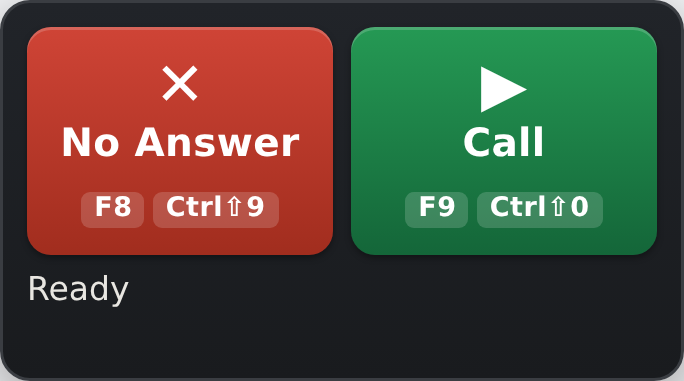
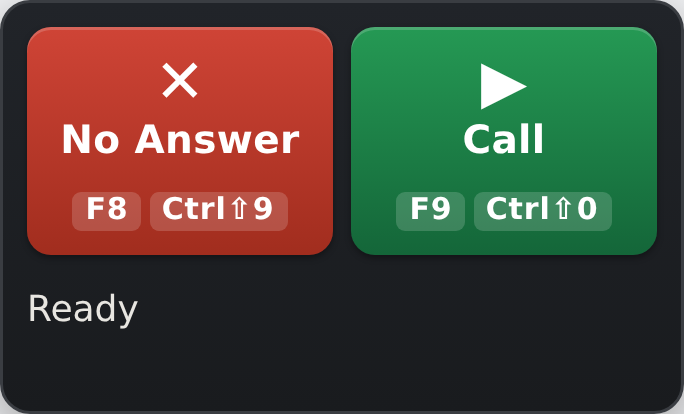
Put the overlay on a type scale and a gap hierarchy
From jakubkrehel/skills (better-layout, better-typography) and
emilkowalski/skills (apple-design's typography section).

Type. The overlay ran 9/10/11/12/13px with no system behind it, and
9px is under the floor for UI text however dense the tool is. Four
sizes now, named for their use — action 13, read 12, caption 11,
overline 10 — and nothing set off the scale. The status is body text
that wraps, so it takes body leading (1.4) and its reserved height is
derived from the scale rather than picked, which is how the reserve and
the leading stop drifting apart. text-wrap:pretty on the two things
that wrap, since an orphan on the last line of a prospect's sentence is
the normal case here, not the edge one.

Space. Grouping only reads when the gap between groups is at least
twice the gap inside one, and the gaps were flat: 6 between the two
buttons but only 8 from that pair to the pane, and 5 between the bands
— smaller than the gap inside a group. Now 6 within (the button pair,
the pane and its rail) and 12 between. The bands each carry their own
shape so they need less, except the status, which is bare text on the
box and gets its own larger gap.

Details the two skills name directly:

- user-select:none was blanket over the overlay and the panel. It is
  now on the controls only, where a double-click would highlight a
  label instead of firing the button. "Stopped: …" is the line a rep
  wants to paste into a message when something breaks.
[…]

diff --git a/extension/content.js b/extension/content.js
@@ -223,6 +223,19 @@
   // ---------------- Optional on-page overlay ----------------
   const OVERLAY_ID = 'sl-hotkey-overlay';
 
+  // Four sizes, named for what they are for, and nothing off the scale. The
+  // overlay used to run 9/10/11/12/13px with no system behind it, and 9px is
+  // below the floor for UI text however dense the tool is. Weight and colour
+  // carry the rest of the hierarchy.
+  const TYPE = {
+    action: 13,     // the button labels — the largest thing here, and the point
+    read: 12,       // what the prospect said, and what the extension says back
+    caption: 11,    // timestamps, the call timer
+    overline: 10,   // keycaps and the uppercase labels; the floor
+  };
+  // Wrapping text needs 1.4 or better; a label on one line can sit tighter.
+  const LEADING = { read: 1.4, label: 1.15 };
+
   // Every part of the overlay is a fixed size. The two action buttons are what
   // the rep aims at all day, so nothing the extension displays — a long status
   // line, a contact alert appearing, a talkative prospect — is allowed to move
@@ -232,9 +245,17 @@
   const TRANSCRIPT_WIDTH = 280;
   const PANEL_HEIGHT = 120;     // the buttons, the pane and the rail: one row, one height
   const BOX_PAD = 8;
-  const MAIN_GAP = 8;           // between the button column and the pane
-  const STACK_GAP = 5;          // between the alert, the row and the status
+  // Grouping is carried by space, and space only groups when the gap between
+  // groups is at least twice the gap inside one. Inside the button pair is 6,
+  // and the rail belongs to the pane at 6, so the two groups sit 12 apart. The
+  // bands are each a shape of their own — a tinted banner, filled buttons, a
+  // bordered pane — so they need less, except the status, which is bare text
+  // and gets STATUS_GAP on top.
+  const MAIN_GAP = 12;          // the button column | the pane and its rail
+  const PAIR_GAP = 6;           // between the two action buttons
   const RAIL_GAP = 6;           // between the pane and its rail
+  const STACK_GAP = 6;          // between the alert band and the row
+  const STATUS_GAP = 10;        // the row to the status, which has no shape
   const ICON = 19;              // the rail's square buttons
   // Five rail buttons and their gaps have to fit PANEL_HEIGHT, which is what
   // stops the pane shrinking further.
@@ -242,9 +263,11 @@
   // Reserved, never measured — that is what stops a long "Stopped: …" moving
   // the buttons. Beside a transcript the box is wide enough for any of them on
   // one line; on its own it is 210px, where the long ones need two. Either way
-  // the tooltip carries whatever still does not fit.
-  const STATUS_ONE_LINE = 15;
-  const STATUS_TWO_LINES = 28;
+  // the tooltip carries whatever still does not fit. Derived from the scale
+  // rather than picked, so the reserve and the leading cannot drift apart.
+  const STATUS_LINE = Math.round(TYPE.read * LEADING.read);
+  const STATUS_ONE_LINE = STATUS_LINE;
+  const STATUS_TWO_LINES = STATUS_LINE * 2;
   // With a transcript beside them the buttons stretch to meet it — same column
   // width, the pane's full height. With nothing to match they stay short: tall
   // enough for the glyph, the label and the keycaps and no taller, so the
@@ -367,6 +390,11 @@
       `#${OVERLAY_ID} ::-webkit-scrollbar-thumb:hover{background:#4c5057}`,
       `#${OVERLAY_ID} ::-webkit-scrollbar-track{background:transparent}`,
       `#${OVERLAY_ID} button{font-family:inherit;margin:0}`,
+      // Selection off on the controls, where a double-click would highlight a
+      // label instead of firing the button — and on nothing else. The status
+      // and the contact alert stay selectable, because "Stopped: …" is the
+      // line a rep wants to paste into a message when something breaks.
+      `#${OVERLAY_ID} .sl-act,#${OVERLAY_ID} .sl-icon{user-select:none}`,
       `#${OVERLAY_ID} button:focus-visible{outline:2px solid #8ab4f8;outline-offset:2px}`,
       // Order matters below: hover, then press, then busy. All three are the
       // same specificity, so the later rule wins — the press has to beat the
@@ -377,11 +405,11 @@
       // nudge is invisible, and the point of press feedback is that the rep
       // sees the button answer before the flow starts.
       `#${OVERLAY_ID} .sl-act{transition:transform ${RELEASE_MS}ms ${EASE_OUT},filter ${RELEASE_MS}ms ease}`,
-      `#${OVERLAY_ID} .sl-key{background:rgba(255,255,255,.17);border-radius:3px;padding:1px 4px;font-size:9px;font-weight:600;letter-spacing:.02em;white-space:nowrap}`,
+      `#${OVERLAY_ID} .sl-key{background:rgba(255,255,255,.17);border-radius:3px;padding:1px 4px;font-size:${TYPE.overline}px;font-weight:600;letter-spacing:.03em;white-space:nowrap}`,
       // The small square buttons on the rail. Their resting look lives here so
       // that a highlight set inline — the save nudge, the paused state — can be
       // cleared back to it with an empty string.
-      `#${OVERLAY_ID} .sl-icon{background:transparent;border:1px solid #3a3d42;color:#e8e6e1;border-radius:6px;padding:0;font-size:10px;line-height:1;cursor:pointer;display:flex;align-items:center;justify-content:center;flex:0 0 auto;transition:transform ${RELEASE_MS}ms ${EASE_OUT},background-color ${RELEASE_MS}ms ease,border-color ${RELEASE_MS}ms ease}`,
+      `#${OVERLAY_ID} .sl-icon{background:transparent;border:1px solid #3a3d42;color:#e8e6e1;border-radius:6px;padding:0;font-size:${TYPE.caption}px;line-height:1;cursor:pointer;display:flex;align-items:center;justify-content:center;flex:0 0 auto;transition:transform ${RELEASE_MS}ms ${EASE_OUT},background-color ${RELEASE_MS}ms ease,border-color ${RELEASE_MS}ms ease}`,
       `#${OVERLAY_ID} .sl-pill{transition:transform ${RELEASE_MS}ms ${EASE_OUT},filter ${RELEASE_MS}ms ease}`,
 
       // Hover is a mouse state. A touchscreen fires it on tap and then leaves
@@ -429,7 +457,7 @@
     b.innerHTML =
       '<span style="display:flex;flex-direction:column;align-items:center;gap:4px">' +
         `<span style="font-size:20px;line-height:1">${glyph}</span>` +
-        `<span style="font-size:13px;font-weight:600;line-height:1.15;letter-spacing:.01em">${label}</span>` +
+        `<span style="font-size:${TYPE.action}px;font-weight:600;line-height:${LEADING.label};letter-spacing:.01em">${label}</span>` +
       '</span>' +
       `<span style="display:flex;gap:3px">${keys
         .map((k) => `<span class="sl-key">${k}</span>`)
@@ -467,9 +495,12 @@
       'display:flex', 'flex-direction:column', `gap:${STACK_GAP}px`,
       'background:linear-gradient(180deg,#212429 0%,#191b1e 100%)',
       'border:1px solid #3a3d42', 'border-radius:10px',
-      `padding:${BOX_PAD}px`, 'font-family:system-ui,sans-serif', 'font-size:11px',
+      `padding:${BOX_PAD}px`, 'font-family:system-ui,sans-serif', `font-size:${TYPE.read}px`,
+      // Light text on a dark surface renders heavy on macOS. This box is its
+      // own root, so it is set once here rather than on each part of it.
+      '-webkit-font-smoothing:antialiased', '-moz-osx-font-smoothing:grayscale',
       'color:#e8e6e1',
-      'box-shadow:0 6px 22px rgba(0,0,0,.42)', 'user-select:none',
+      'box-shadow:0 6px 22px rgba(0,0,0,.42)',
     ].join(';');
     if (busy) box.classList.add('sl-busy');
     box.appendChild(overlayStyle());
@@ -486,7 +517,7 @@
       // decides how wide the overlay is.
       'width:0', 'min-width:100%',
       'padding:2px 7px', 'border:1px solid transparent', 'border-radius:5px',
-      'font-size:10px', 'font-weight:600', 'line-height:14px',
+      `font-size:${TYPE.read}px`, 'font-weight:600', 'line-height:16px',
       'white-space:nowrap', 'overflow:hidden', 'text-overflow:ellipsis',
     ].join(';');
     box.appendChild(alertEl);
@@ -500,7 +531,7 @@
     const row = document.createElement('div');
     row.style.cssText = [
       `flex:0 0 ${CONTROLS_WIDTH}px`, `width:${CONTROLS_WIDTH}px`, 'box-sizing:border-box',
-      'display:flex', 'gap:6px',
+      'display:flex', `gap:${PAIR_GAP}px`,
       `height:${hasTranscript ? PANEL_HEIGHT : BUTTONS_SHORT}px`,
     ].join(';');
 
@@ -529,7 +560,12 @@
       // child, and "Stopped: Timed out waiting for element. Finish manually."
       // stretches the whole overlay — the buttons with it.
       'width:0', 'min-width:100%',
-      'color:#e8e6e1', 'line-height:14px', 'overflow-wrap:break-word',
+      // The bands above it are all shapes; this is bare text, so the space is
+      // the only thing separating it from the row.
+      `margin-block-start:${STATUS_GAP - STACK_GAP}px`,
+      'color:#e8e6e1', `line-height:${STATUS_LINE}px`, 'overflow-wrap:break-word',
+      // Two lines is the worst case, and a stray last word reads as a mistake.
+      'text-wrap:pretty',
       'display:-webkit-box', `-webkit-line-clamp:${hasTranscript ? 1 : 2}`,
       '-webkit-box-orient:vertical', 'overflow:hidden',
     ].join(';');
@@ -562,6 +598,15 @@
     b.style.cssText = `width:${side}px;height:${side}px`;
     b.addEventListener('click', onClick);
     return b;
+  }
+
+  // The pane's placeholder — "Waiting…", "Listening…", "Cleared." It was built
+  // in two places at two different sizes; one builder means one size.
+  function emptyLine(text) {
+    const el = document.createElement('div');
+    el.style.cssText = `color:#9aa0a6;font-size:${TYPE.caption}px;font-style:italic;`;
+    el.textContent = text;
+    return el;
   }
 
   function saveFromButton() {
@@ -621,11 +666,13 @@
     dot.style.cssText = 'width:6px;height:6px;border-radius:50%;background:#6b6f76;flex:0 0 auto;';
 
     const connection = document.createElement('span');
-    connection.style.cssText = 'font-weight:600;letter-spacing:.05em;font-size:9px;color:#9aa0a6;';
+    connection.style.cssText =
+      `font-weight:600;letter-spacing:.06em;font-size:${TYPE.overline}px;color:#9aa0a6;`;
     connection.textContent = 'OFFLINE';
 
     const timer = document.createElement('span');
-    timer.style.cssText = 'margin-left:auto;font-variant-numeric:tabular-nums;color:#9aa0a6;font-size:10px;';
+    timer.style.cssText =
+      `margin-inline-start:auto;font-variant-numeric:tabular-nums;color:#9aa0a6;font-size:${TYPE.caption}px;`;
     timer.textContent = '00:00';
 
     bar.appendChild(dot);
@@ -639,13 +686,13 @@
       'flex:1 1 auto', 'min-height:0', 'overflow-y:auto', 'padding:6px 8px',
       // Read out of the corner of the eye mid-sentence, so it stays larger and
       // higher-contrast than the rest of the overlay.
-      'font-size:12px', 'line-height:1.4', 'user-select:text', 'cursor:text',
-      'overflow-wrap:break-word',
+      `font-size:${TYPE.read}px`, `line-height:${LEADING.read}`, 'user-select:text', 'cursor:text',
+      // A prospect's sentence wraps to three lines often enough that an orphan
+      // on the last one is the normal case, not the edge one.
+      'overflow-wrap:break-word', 'text-wrap:pretty',
     ].join(';');
 
-    const empty = document.createElement('div');
-    empty.style.cssText = 'color:#9aa0a6;font-size:11px;font-style:italic;';
-    empty.textContent = 'Waiting for the call to start…';
+    const empty = emptyLine('Waiting for the call to start…');
     list.appendChild(empty);
 
     const hint = document.createElement('button');
@@ -653,9 +700,9 @@
     hint.type = 'button';
     hint.textContent = '↓ New text';
     hint.style.cssText = [
-      'display:none', 'position:absolute', 'right:8px', 'bottom:6px',
+      'display:none', 'position:absolute', 'inset-inline-end:8px', 'bottom:6px',
       'background:#3a3d42', 'color:#e8e6e1', 'border:none', 'border-radius:10px',
-      'padding:2px 8px', 'font-size:9px', 'cursor:pointer', 'font-family:inherit',
+      'padding:2px 8px', `font-size:${TYPE.overline}px`, 'cursor:pointer', 'font-family:inherit',
       'box-shadow:0 2px 6px rgba(0,0,0,.4)',
     ].join(';');
     hint.addEventListener('click', () => {
@@ -731,7 +778,7 @@
       const divider = document.createElement('div');
       divider.style.cssText = [
         'margin:7px 0 5px', 'border-top:1px solid #2c2f34', 'padding-top:4px',
-        'color:#6b6f76', 'font-size:9px', 'letter-spacing:.06em', 'text-transform:uppercase',
+        'color:#6b6f76', `font-size:${TYPE.overline}px`, 'letter-spacing:.06em', 'text-transform:uppercase',
       ].join(';');
       divider.textContent = 'Next call';
       tx.list.appendChild(divider);
@@ -742,7 +789,7 @@
 
     const time = document.createElement('span');
     time.style.cssText =
-      'color:#9aa0a6;font-size:10px;font-variant-numeric:tabular-nums;margin-right:5px;';
+      `color:#9aa0a6;font-size:${TYPE.caption}px;font-variant-numeric:tabular-nums;margin-inline-end:5px;`;
     time.textContent = window.slFormatClock(entry.start);
     if (entry.merged > 1) {
       // Coalesced under backpressure: the speech is all there, the timestamps
@@ -834,9 +881,7 @@
     if (!tx) return;
     clearSaveOffer();
     tx.list.textContent = '';
-    tx.empty = document.createElement('div');
-    tx.empty.style.cssText = 'color:#9aa0a6;font-size:12px;font-style:italic;';
-    tx.empty.textContent = 'Cleared.';
+    tx.empty = emptyLine('Cleared.');
     tx.list.appendChild(tx.empty);
     tx.hint.style.display = 'none';
   }

diff --git a/extension/panel.html b/extension/panel.html
@@ -22,7 +22,6 @@
       color: var(--text);
       font-family: system-ui, sans-serif;
       font-size: 12px;
-      user-select: none;
       display: flex;
       flex-direction: column;
       height: 100vh;
@@ -41,9 +40,10 @@
       line-height: 1.2;
       font-family: inherit;
     }
+    .row button { user-select: none; }
     .row button:active { transform: scale(0.97); }
     .label { font-weight: 600; font-size: 14px; }
-    .sub { opacity: 0.75; font-size: 10px; margin-top: 3px; }
+    .sub { opacity: 0.75; font-size: 11px; margin-top: 3px; }
     #kill { background: #c0392b; }
     #call { background: #1e7e46; }
 
@@ -86,7 +86,7 @@
     @keyframes pulse { 0%, 100% { opacity: 1; } 50% { opacity: 0.35; } }
 
     #connection { font-weight: 600; letter-spacing: .04em; font-size: 11px; }
-    #timer { margin-left: auto; font-variant-numeric: tabular-nums; color: var(--muted); }
+    #timer { margin-inline-start: auto; font-variant-numeric: tabular-nums; color: var(--muted); }
 
     .icon-btn {
       background: none;
@@ -119,7 +119,7 @@
     }
     .entry { margin-bottom: 10px; }
     .entry-time { color: var(--muted); font-size: 11px; font-variant-numeric: tabular-nums; }
-    .entry-text { color: var(--text); }
+    .entry-text { color: var(--text); text-wrap: pretty; }
     .entry.merged .entry-time::after { content: " ~"; color: #e0a020; }
     #empty { color: var(--muted); font-size: 12px; font-style: italic; }
     .caret { display: inline-block; width: 7px; height: 15px; background: var(--muted); animation: pulse 1.1s infinite; vertical-align: text-bottom; }
@@ -127,7 +127,7 @@
     #scroll-hint {
       display: none;
       position: absolute;
-      right: 20px;
+      inset-inline-end: 20px;
       bottom: 18px;
       background: var(--border);
       color: var(--text);

diff --git a/extension/settings.html b/extension/settings.html
@@ -27,7 +27,11 @@
     }
     .setting:has(+ .footer) { border-bottom: none; }
     .name { flex: 1; }
-    .hint { display: block; opacity: .55; font-size: 11px; margin-top: 2px; }
+    .hint {
+      display: block; opacity: .55; font-size: 11px; margin-top: 2px;
+      /* These run to three lines; anything that wraps that far needs 1.4+. */
+      line-height: 1.4; text-wrap: pretty;
+    }
     .setting.stacked { display: block; }
     .setting.stacked select { width: 100%; margin-top: 6px; }
 
@@ -67,7 +71,7 @@
     .notice {
       margin-top: 8px; padding: 8px; border-radius: 6px;
       background: #26282c; border: 1px solid #3a3d42;
-      font-size: 11px; line-height: 1.45; color: #c9c6c0;
+      font-size: 11px; line-height: 1.45; color: #c9c6c0; text-wrap: pretty;
     }
     .notice strong { color: #e8e6e1; }
     .footer { margin-top: 14px; display: flex; justify-content: space-between; align-items: center; gap: 8px; }

diff --git a/CLAUDE.md b/CLAUDE.md
@@ -142,7 +142,7 @@ When Salesloft ships UI changes, these are what break.
 - `killAndLog` sets the disposition **before** clicking "Log & Complete". Any failed step throws, surfaces "Stopped: … Finish manually.", and leaves the call unlogged — never log with a wrong or missing disposition.
 - A `busy` flag serializes flows; hotkeys and clicks are ignored while one runs.
 - In-page hotkeys are suppressed while typing (`isTyping()`).
-- **The overlay never moves or resizes with its content.** It is pinned bottom-left and stacked as three bands: the contact alert, the row, the status. The row carries everything the rep aims at — the button column a fixed 210px, the transcript pane a fixed 280px, and buttons, pane and rail all exactly `PANEL_HEIGHT`, so the three finish on the same line and transcript lines scroll rather than push anything around. The status is a full-width line **below** that row rather than a slice of the button column: a sentence reads better across the box than down 210px, and down there it has nothing to push. Its height is **reserved, not measured** — one line beside a transcript, where the box is wide enough for any status we write, two without one, and the tooltip carries the rest — which is what stops a long "Stopped: …" from shoving the buttons upward. The buttons stretch **vertically** to meet the pane and never widen: the pair keeps the column's width and splits it, so their left/right positions are identical with the transcript on, off or folded away. The contact alert is the one part that comes and goes on its own, so it is a full-width banner **above** that row — the overlay is anchored at its foot, so the banner grows the box upward and moves nothing (`width:0;min-width:100%` stops a long tag deciding the overlay's width). Hover and press effects are `filter`/`transform` only, for the same reason — a `scale()` press does not touch layout. Those states are written in cascade order in `overlayStyle()` — hover, then press, then `sl-busy`, then reduced-motion — because they are all the same specificity, so the later rule is the one that wins: the press has to beat the hover it happens under, a press being thrown away by `busy` has to beat both, and reduced motion drops the movement while leaving the colour to answer. Reordering them is how that silently breaks. The rail's live dot is positioned out of the flow for the same reason: in it, it would hold a slot that is empty whenever the pane is showing. Nothing else resizes the overlay but a deliberate click: transcription on or off (which adds the pane and the taller buttons), and minimising the pane (width only).
+- **The overlay never moves or resizes with its content.** It is pinned bottom-left and stacked as three bands: the contact alert, the row, the status. The row carries everything the rep aims at — the button column a fixed 210px, the transcript pane a fixed 280px, and buttons, pane and rail all exactly `PANEL_HEIGHT`, so the three finish on the same line and transcript lines scroll rather than push anything around. The status is a full-width line **below** that row rather than a slice of the button column: a sentence reads better across the box than down 210px, and down there it has nothing to push. Its height is **reserved, not measured** — one line beside a transcript, where the box is wide enough for any status we write, two without one, and the tooltip carries the rest — which is what stops a long "Stopped: …" from shoving the buttons upward. The buttons stretch **vertically** to meet the pane and never widen: the pair keeps the column's width and splits it, so their left/right positions are identical with the transcript on, off or folded away. The contact alert is the one part that comes and goes on its own, so it is a full-width banner **above** that row — the overlay is anchored at its foot, so the banner grows the box upward and moves nothing (`width:0;min-width:100%` stops a long tag deciding the overlay's width). Hover and press effects are `filter`/`transform` only, for the same reason — a `scale()` press does not touch layout. Those states are written in cascade order in `overlayStyle()` — hover, then press, then `sl-busy`, then reduced-motion — because they are all the same specificity, so the later rule is the one that wins: the press has to beat the hover it happens under, a press being thrown away by `busy` has to beat both, and reduced motion drops the movement while leaving the colour to answer. Reordering them is how that silently breaks. The rail's live dot is positioned out of the flow for the same reason: in it, it would hold a slot that is empty whenever the pane is showing. **Sizes come from `TYPE` and gaps from the 2× rule.** `TYPE` is four sizes named for their use (`action` 13, `read` 12, `caption` 11, `overline` 10) and nothing is set off it — `STATUS_LINE` is derived from `TYPE.read` so the reserve and the leading cannot drift apart. Gaps encode grouping: 6 inside a group (the button pair, the pane and its rail), 12 between them, because space only groups when the outer gap is at least twice the inner one. The status is the exception that needs `STATUS_GAP` on top — every other band is a shape of its own (a tinted banner, filled buttons, a bordered pane) and the shape does the grouping, but the status is bare text on the box. Nothing else resizes the overlay but a deliberate click: transcription on or off (which adds the pane and the taller buttons), and minimising the pane (width only).
 - **Minimising hides the pane, not the transcript.** The rail survives it, so pause/copy/save/clear and a live indicator stay reachable and no captured line is lost; capture itself is untouched. The flag lives in `txView` rather than storage, so it survives an overlay rebuild (a settings toggle, a stale copy being replaced) but not a page reload.
 - **Nothing renders over the Salesloft page.** The contact alert appears only in the floating panel and as the tinted line inside the overlay (`window.__slOnContactAlert`); do not bring back a floating toast.
 - **The overlay belongs to a contact, not to Salesloft.** It is drawn only where one person is on screen — `slIsContactUrl()` in `defaults.js` matches the route (`/app/people/{id}` and friends, never the People list), and `content.js` falls back to the DOM (`[data-testid="popout-logger-container"]`, `person-detail*`) so the logger popout keeps the buttons wherever the rep dialled from. Salesloft is a single-page app, so `syncOverlay()` re-decides on every re-render rather than once at injection, and it never removes the overlay while `busy` — a flow mid-way through logging a call keeps its status line.
